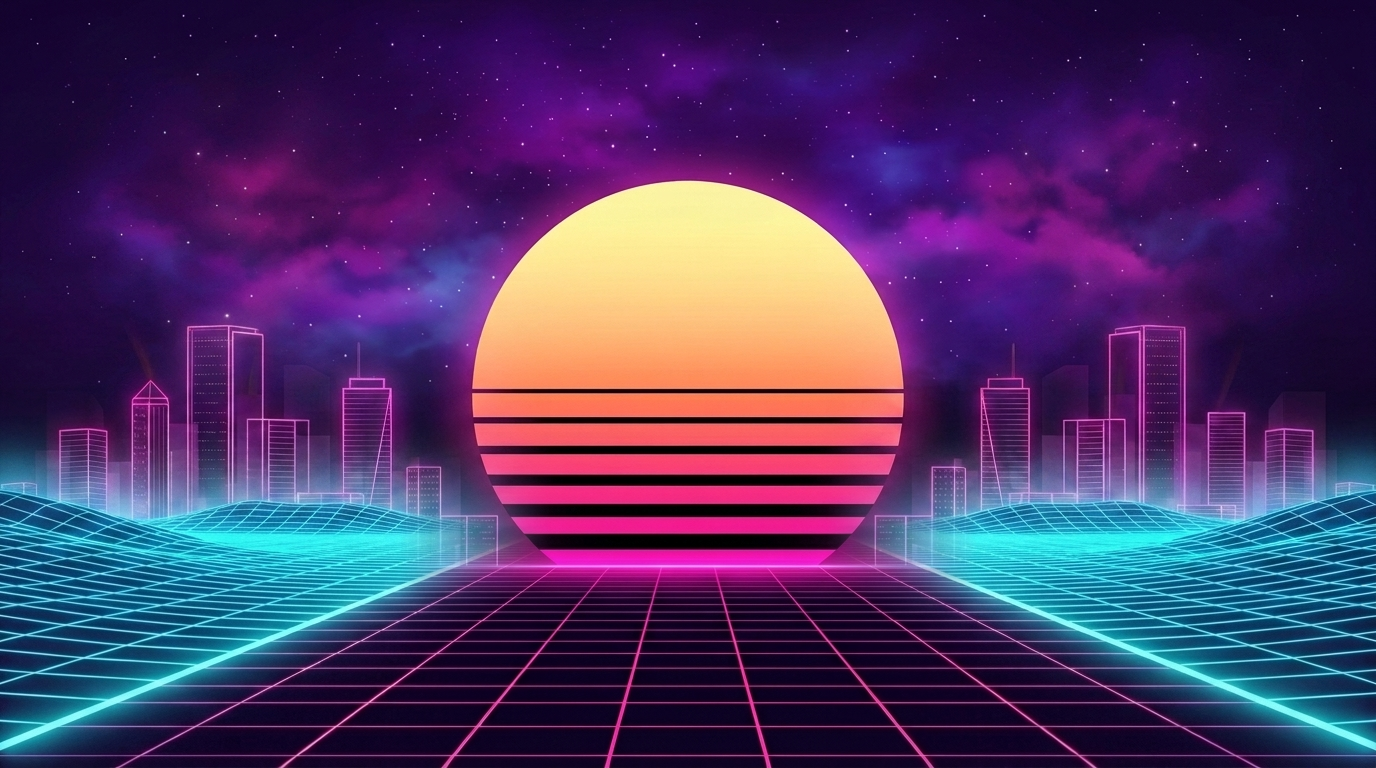
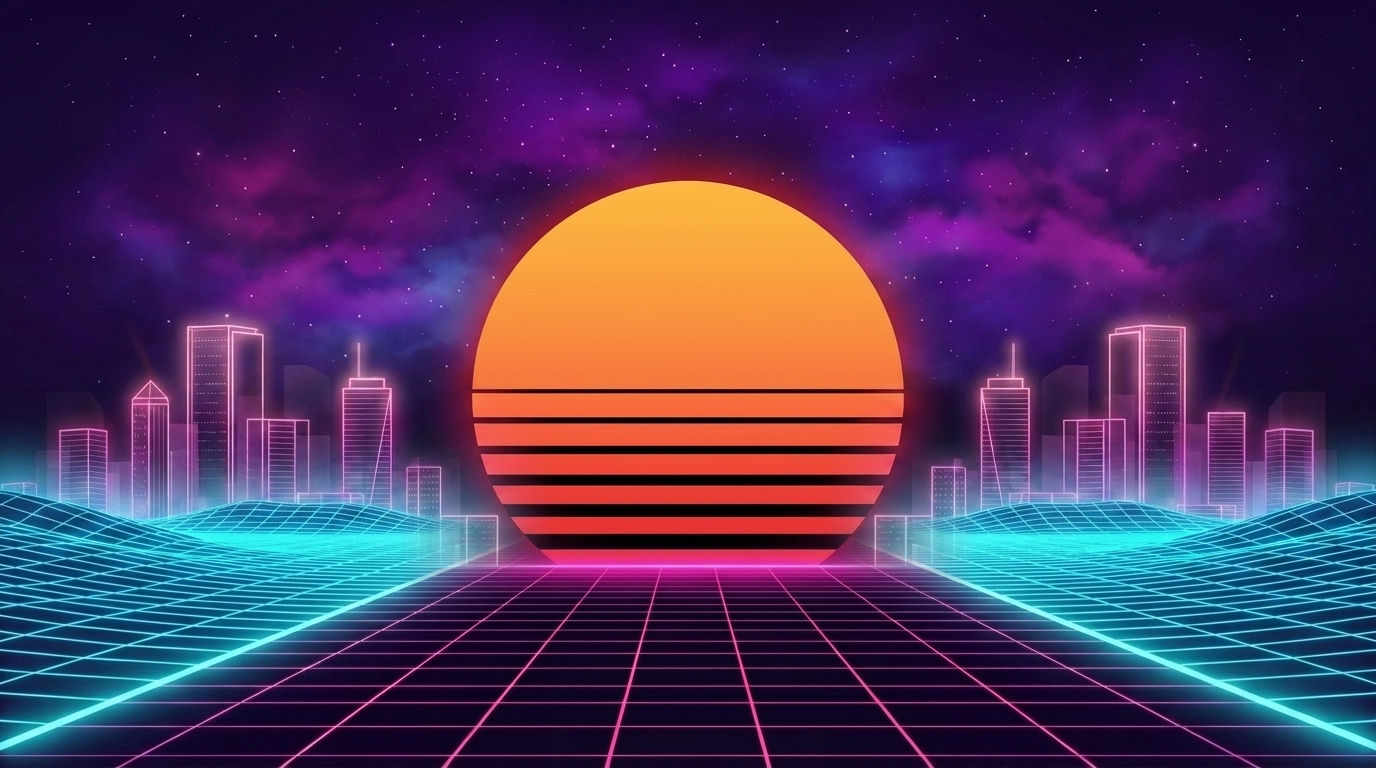
Match landscape to portrait: soft pink buildings both orientations

Changed region(s): [[0.0938, 0.1875, 0.75, 0.75], [0.7812, 0.4062, 0.9062, 0.5625], [0.6562, 0.7188, 0.6875, 0.75]]

diff --git a/index.html b/index.html
@@ -5642,7 +5642,7 @@ updateMenuCar();                                             // reflect the save
   // sun geometry in each source image: cx = fraction of image WIDTH; cy & d = fraction of image HEIGHT
   const SUN = {
     portrait:  { nw: 768,  nh: 1376, cx: 0.501, cy: 0.320, d: 0.305 },
-    landscape: { nw: 1376, nh: 768,  cx: 0.499, cy: 0.518, d: 0.561 }
+    landscape: { nw: 1376, nh: 768,  cx: 0.500, cy: 0.515, d: 0.561 }
   };
   let cx = 0, cy = 0, R = 0, box = 0, dpr = 1;            // css px geometry (canvas-local)
   let smooth = null;                                      // shared smoothed spectrum (fast attack / slow decay)